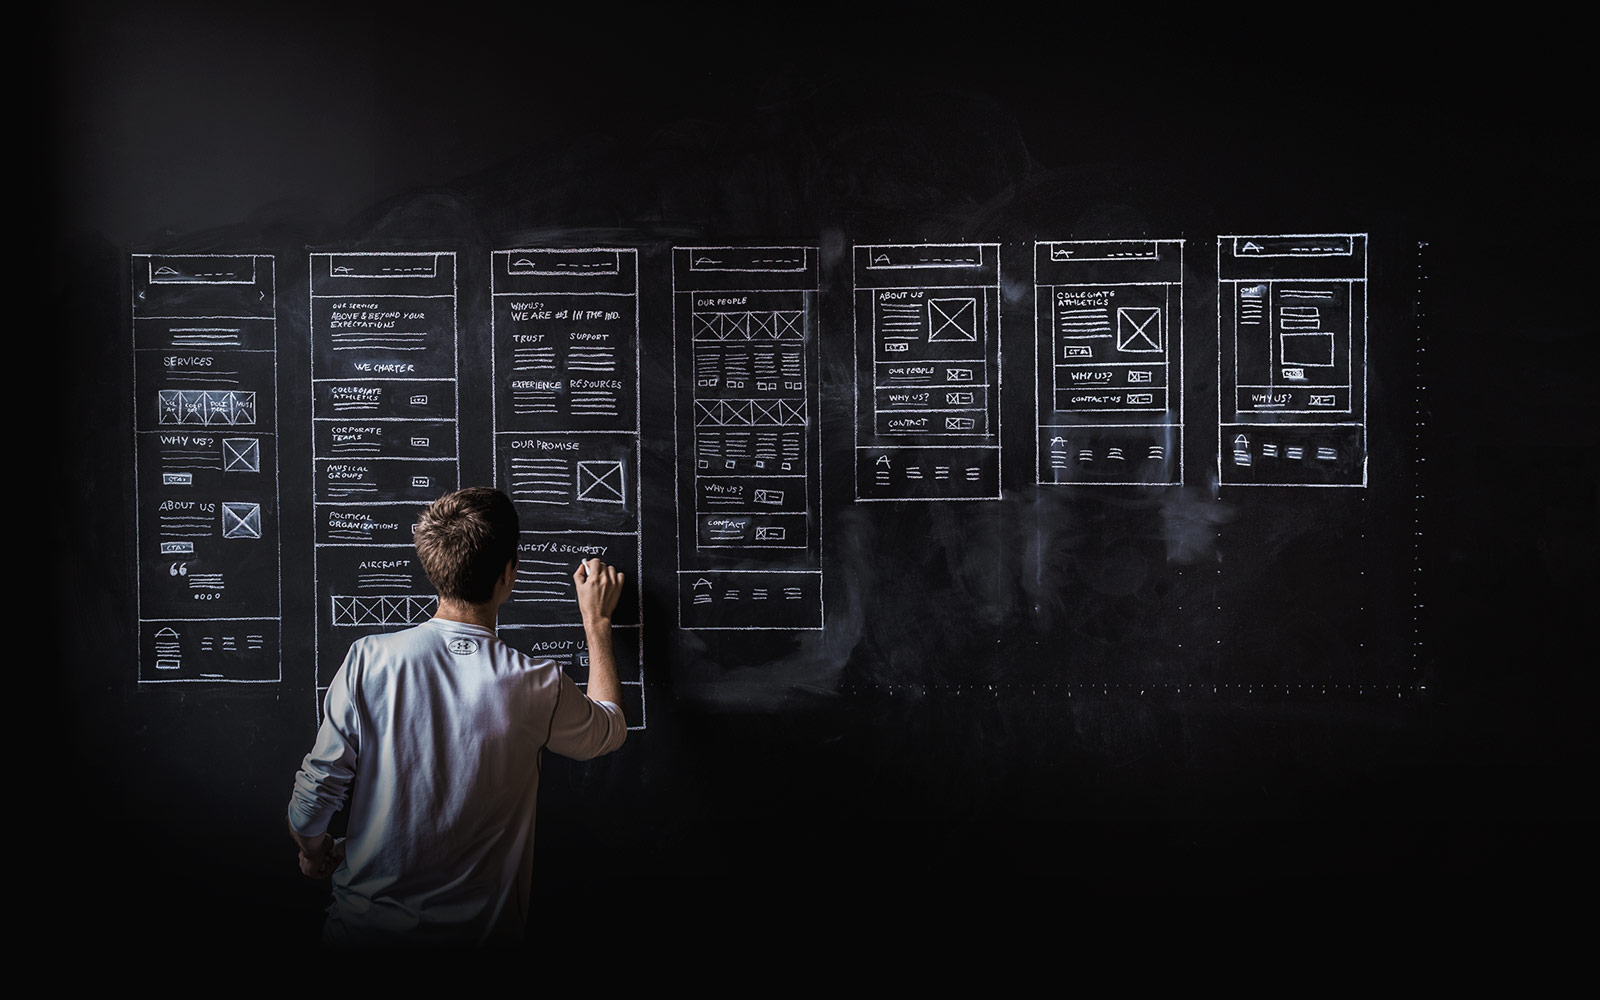
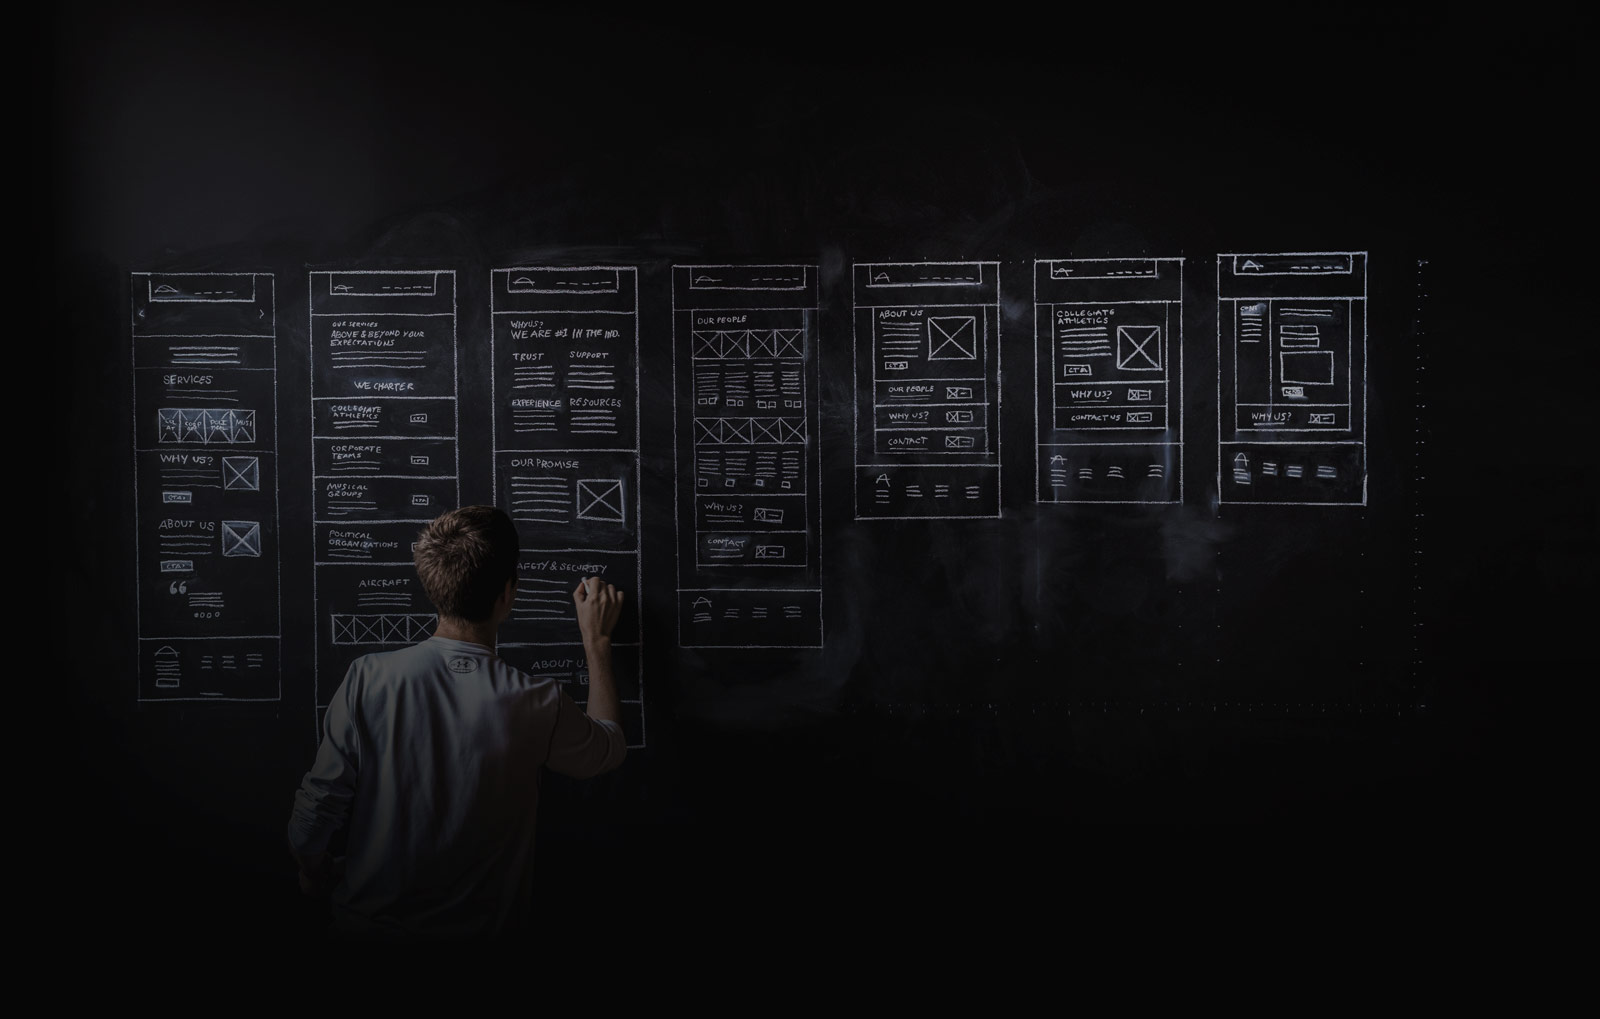
new background image, updated nav

Changed region(s): [[0.0625, 0.217, 0.875, 0.93], [0.4375, 0.682, 0.4688, 0.713]]

diff --git a/src/css/index.css b/src/css/index.css
@@ -59,16 +59,8 @@ table {
 /* line 1, ../sass/theme/_base.scss */
 html {
   height: 100%;
-  background: #0f2938;
-  /* Old browsers */
-  filter: progid:DXImageTransform.Microsoft.gradient( startColorstr='$green', endColorstr='#000000',GradientType=0 );
-  /* IE6-9 */
-  background: -moz-linear-gradient(top, #0f6938 0%, #000000 100%);
-  /* FF3.6-15 */
-  background: -webkit-linear-gradient(top, #0f6938 0%, #000000 100%);
-  /* Chrome10-25,Safari5.1-6 */
-  background: linear-gradient(to bottom, #0f6938 0%, #000000 100%);
-  /* W3C, IE10+, FF16+, Chrome26+, Opera12+, Safari7+ */
+  background: #0f0f0f;
+  background: #0f0f0f url(../img/niko-matses_ui-designer_chalkboard-wireframing.jpg);
   background-repeat: no-repeat;
   background-position: 20% 50%;
   background-size: cover;
@@ -81,7 +73,7 @@ html {
   }
 }
 
-/* line 18, ../sass/theme/_base.scss */
+/* line 15, ../sass/theme/_base.scss */
 body {
   height: 100%;
   -webkit-animation: fadein 3s;
@@ -95,7 +87,7 @@ body {
   animation: fadein 3s;
 }
 
-/* line 27, ../sass/theme/_base.scss */
+/* line 24, ../sass/theme/_base.scss */
 #wrapper {
   padding: 0;
   margin: 0;
@@ -106,8 +98,9 @@ body {
 }
 
 @media (max-width: 1024px) {
-  /* line 36, ../sass/theme/_base.scss */
+  /* line 33, ../sass/theme/_base.scss */
   #bg-container {
+    background-image: url(../img/niko-matses_ui-designer_chalkboard-wireframing.jpgr);
     background-attachment: scroll;
     background-position: 30% 0;
     background-size: cover;
@@ -122,7 +115,7 @@ body {
  * iPad with portrait orientation.
  */
 @media all and (device-width: 768px) and (device-height: 1024px) and (orientation: portrait) {
-  /* line 52, ../sass/theme/_base.scss */
+  /* line 49, ../sass/theme/_base.scss */
   #bg-container {
     height: 1024px;
   }
@@ -131,7 +124,7 @@ body {
  * iPad with landscape orientation.
  */
 @media all and (device-width: 768px) and (device-height: 1024px) and (orientation: landscape) {
-  /* line 61, ../sass/theme/_base.scss */
+  /* line 58, ../sass/theme/_base.scss */
   #bg-container {
     height: 768px;
   }
@@ -141,7 +134,7 @@ body {
  * You can also target devices with aspect ratio.
  */
 @media screen and (device-aspect-ratio: 40 / 71) {
-  /* line 71, ../sass/theme/_base.scss */
+  /* line 68, ../sass/theme/_base.scss */
   #bg-container {
     height: 500px;
   }
@@ -159,7 +152,7 @@ h1, h2, p {
 }
 
 /* line 9, ../sass/theme/_typography.scss */
-a, footer {
+footer {
   font-family: "Coda", Gotham, "Helvetica Neue", Helvetica, Arial, sans-serif;
 }
 
@@ -189,18 +182,17 @@ h2 {
   font-size: 1.75em;
   letter-spacing: 1px;
   text-transform: uppercase;
-  border-bottom: 1px solid;
   margin-bottom: 15px;
   padding: 0 0 15px;
 }
 
-/* line 35, ../sass/theme/_typography.scss */
+/* line 34, ../sass/theme/_typography.scss */
 a {
   text-decoration: none;
   color: #f1f1f1;
 }
 
-/* line 39, ../sass/theme/_typography.scss */
+/* line 38, ../sass/theme/_typography.scss */
 p {
   color: #f1f1f1;
   font-size: 1.25em;
@@ -213,44 +205,48 @@ p {
   right: 0;
   width: 100%;
 }
-@media (min-width: 640px) {
-  /* line 1, ../sass/theme/_nav.scss */
-  .nav {
-    width: auto;
-  }
+
+/* line 6, ../sass/theme/_nav.scss */
+.nav__menu {
+  text-align: right;
 }
 
 /* line 9, ../sass/theme/_nav.scss */
-.nav__menu {
-  text-align: center;
-}
-
-/* line 14, ../sass/theme/_nav.scss */
 .nav__menu-item {
   display: inline-block;
   padding: 15px;
+  font-family: "Coda", Gotham, "Helvetica Neue", Helvetica, Arial, sans-serif;
   font-size: 14px;
   text-transform: uppercase;
   letter-spacing: 1px;
 }
 @media (min-width: 640px) {
-  /* line 14, ../sass/theme/_nav.scss */
+  /* line 9, ../sass/theme/_nav.scss */
   .nav__menu-item {
     padding: 30px;
     font-size: 1em;
   }
 }
 
-/* line 25, ../sass/theme/_nav.scss */
+/* line 21, ../sass/theme/_nav.scss */
 .nav__menu-link {
   -webkit-font-smoothing: antialiased;
   -moz-osx-font-smoothing: grayscale;
-  font-family: "Coda", Gotham, "Helvetica Neue", Helvetica, Arial, sans-serif;
   transition: color .3s;
 }
-/* line 29, ../sass/theme/_nav.scss */
+/* line 24, ../sass/theme/_nav.scss */
 .nav__menu-link:hover {
   color: #fff !important;
+}
+
+/* line 29, ../sass/theme/_nav.scss */
+.nav__menu-item--logo {
+  position: relative;
+  display: inline;
+  left: 0;
+  font-size: 18px;
+  font-family: "Averia Sans Libre", Gotham, "Helvetica Neue", Helvetica, Arial, sans-serif;
+  letter-spacing: 5px;
 }
 
 /* line 1, ../sass/theme/_header.scss */
@@ -407,7 +403,8 @@ p {
 .cta {
   width: 50%;
   max-width: 300px;
-  font-size: 14px;
+  font-family: "Averia Sans Libre", Gotham, "Helvetica Neue", Helvetica, Arial, sans-serif;
+  font-size: 16px;
   display: block;
   padding: 15px 30px;
   color: #f1f1f1;
@@ -416,23 +413,23 @@ p {
   letter-spacing: 1px;
   transition: background-color 0.3s ease, color 0.3s ease;
   margin: 50px auto 0;
-  background: #0f6938;
+  background: #45B649;
 }
 
-/* line 16, ../sass/modules/_cta.scss */
+/* line 17, ../sass/modules/_cta.scss */
 .anchor {
   visibility: hidden;
   padding-top: 100px;
   margin: 0;
 }
 
-/* line 21, ../sass/modules/_cta.scss */
+/* line 22, ../sass/modules/_cta.scss */
 .cta:hover {
-  color: #f1f1f1;
+  color: #45B649;
   background: #0f0f0f;
 }
 
-/* line 25, ../sass/modules/_cta.scss */
+/* line 26, ../sass/modules/_cta.scss */
 .contact__cta {
   display: inline-block;
   margin: 15px;

diff --git a/src/index.html b/src/index.html
@@ -4,7 +4,7 @@
 <meta charset="utf-8">
 <meta name="viewport" content="width=device-width, initial-scale=1.0">
 <meta name="format-detection" content="telephone=no">
-<title>Niko Matses - Cinematographer / Editor - Boston, MA</title>
+<title>Niko Matses - Motion Design / Web Development - Boston, MA</title>
 <script src="https://use.typekit.net/qbp5vqk.js"></script>
 <script>try{Typekit.load({ async: true });}catch(e){}</script>   
 <link href="css/pres/screen.css" media="screen, projection" rel="stylesheet" type="text/css" />
@@ -31,30 +31,26 @@
 </div>
    <nav class="nav">
       <ul class="nav__menu">
+         <li class="nav__menu-item"><a class="nav__menu-link" href="#home">Home</a></li>            
+         <li class="nav__menu-item"><a class="nav__menu-link" href="#about">About</a></li>         
          <li class="nav__menu-item"><a class="nav__menu-link" href="#showreel">Video</a></li>
-         <li class="nav__menu-item"><a class="nav__menu-link" href="#about">About</a></li>
          <li class="nav__menu-item"><a class="nav__menu-link" href="#contact">Contact</a></li>
       </ul>
    </nav>
-<header class="header">
+<header class="header" id="home">
   <section class="header__intro">
-    <article>
-        <h2 id="header__name" class="tk-rinse">Niko Matses</h2>
-        <h1 id="header__title" class="tk-rinse">Digital Designer &amp; Web Developer</h1>
+    <div id="cbp-so-scroller" class="cbp-so-scroller">
+        <h1 id="header__name" class="tk-rinse">Niko Matses</h1>
+        <h1 id="header__title" class="tk-rinse">Motion Design &amp; Web Developement</h1>
         <h2 id="header__name" class="tk-rinse">Boston, MA</h2>
-        <a class="cta" href="#showreel">Show Reel</a>
-    </article>
+        <a class="cta" href="#about">Learn More</a>
+     </div>
   </section>
 </header>
 
 <div id="main__gradient-in"></div> 
 <main id="main">
-  <section id="showreel" name="showreel">
-	<div class='embed-container'><iframe src='https://player.vimeo.com/video/131066298?title=0&byline=0&portrait=0' frameborder='0' webkitAllowFullScreen mozallowfullscreen allowFullScreen></iframe></div>
-	<a class="cta" href="#about">About</a>
-    </section>
-    
-    <div id="about" name="about" class="about__container">	
+    <section id="about" name="about" class="about__container">	
 			<div id="cbp-so-scroller" class="cbp-so-scroller">
 				<section class="cbp-so-section">
 					<figure class="cbp-so-side cbp-so-side-left">
@@ -64,15 +60,18 @@
                         <article class="about__me">
 
                             <h2  class="tk-rinse">About</h2>     
-                               <p class="about__intro">Boston-based cinematographer, editor, and motion designer seeking collaborators for short film and music video projects. I've worked five years semi-professionally as a photographer, camera operator, editor, director and producer - with a professional career as a front-end web developer.</p>
+                               <p class="about__intro">Boston-based cinematographer, developer, and motion designer seeking collaborators for short film and music video projects. I've worked seven years semi-professionally as a photographer, camera operator, editor, director and producer - with a professional career as a front-end web developer.</p>
                                <p class="about__intro">I have a passion for music, art, design and cinematography. I'm constantly interested in discussing new and exciting creative projects. If you think you might like to collaborate on a short film, music video, documentary or event, let's talk shop!</p>
         <a href="#contact" class="cta">Contact</a>
                       </article>		
 				</article>
 			</section>
 		</div>
-    </div>
-	
+    </section>   
+  <section id="showreel" name="showreel">
+	<div class='embed-container'><iframe src='https://player.vimeo.com/video/131066298?title=0&byline=0&portrait=0' frameborder='0' webkitAllowFullScreen mozallowfullscreen allowFullScreen></iframe></div>
+	<a class="cta" href="#about">About</a>
+   </section>
 </main>
 <div id="main__gradient-out"></div>    
     

diff --git a/src/sass/theme/_base.scss b/src/sass/theme/_base.scss
@@ -3,16 +3,13 @@ html {
     background: #000;
 }
 	height: 100%;
-	background: #0f2938; /* Old browsers */
-	filter: progid:DXImageTransform.Microsoft.gradient( startColorstr='$green', endColorstr='#000000',GradientType=0 ); /* IE6-9 */
-	background: -moz-linear-gradient(top, $green 0%, #000000 100%); /* FF3.6-15 */
-	background: -webkit-linear-gradient(top, $green 0%,#000000 100%); /* Chrome10-25,Safari5.1-6 */
-	background: linear-gradient(to bottom, $green 0%,#000000 100%); /* W3C, IE10+, FF16+, Chrome26+, Opera12+, Safari7+ */
-	//background: #000 url(../img/niko-matses-cinematographer.jpg);
+	background: $gray;
+	background: $gray url(../img/niko-matses_ui-designer_chalkboard-wireframing.jpg);
 	background-repeat:no-repeat;
 	background-position: 20% 50%;
 	background-size:cover;
 	background-attachment:fixed;
+   
 }
 
 body {
@@ -35,7 +32,7 @@ body {
 
 #bg-container {
   @media (max-width:1024px) {
-    //background-image: url(../img/niko-matses-cinematographer.jpg);
+    background-image: url(../img/niko-matses_ui-designer_chalkboard-wireframing.jpgr);
     background-attachment:scroll;
     background-position: 30% 0;
     background-size:cover;

diff --git a/src/sass/theme/_nav.scss b/src/sass/theme/_nav.scss
@@ -2,21 +2,17 @@
    position: fixed;
    right: 0;
    width: 100%;
-   @media (min-width:640px) {
-      width: auto;
-   } 
 }
 .nav__menu {
-   
-   
-   text-align: center;
+   text-align: right;
 }
 .nav__menu-item {
    display: inline-block;
    padding: 15px;
+   font-family: "Coda", Gotham, "Helvetica Neue", Helvetica, Arial, sans-serif;
    font-size: 14px;
    text-transform: uppercase;
-   letter-spacing: 1px;
+   letter-spacing: 1px;   
    @media (min-width:640px) {
       padding: 30px;
       font-size: 1em;
@@ -24,9 +20,17 @@
 }
 .nav__menu-link {
     @include smoothText;
-	font-family: "Coda", Gotham, "Helvetica Neue", Helvetica, Arial, sans-serif;
-   transition: color .3s;
-   &:hover {
+    transition: color .3s;
+    &:hover {
       color: #fff !important;
-   }
+    }
+}
+
+.nav__menu-item--logo {
+   position: relative;
+   display: inline;
+   left: 0;
+   font-size: 18px;
+   font-family: "Averia Sans Libre", Gotham, "Helvetica Neue", Helvetica, Arial, sans-serif;
+   letter-spacing: 5px;
 }

diff --git a/src/sass/theme/_typography.scss b/src/sass/theme/_typography.scss
@@ -6,7 +6,7 @@ h1, h2, p {
     @include smoothText;
 	font-family: "Averia Sans Libre", Gotham, "Helvetica Neue", Helvetica, Arial, sans-serif;
 }
- a, footer {
+ footer {
 	font-family: "Coda", Gotham, "Helvetica Neue", Helvetica, Arial, sans-serif;
 }
 
@@ -28,7 +28,6 @@ h2 {
 	font-size: 1.75em;
 	letter-spacing: 1px;
 	text-transform:uppercase;
-	border-bottom: 1px solid;
 	margin-bottom: 15px;
     padding: 0 0 15px;
 }

diff --git a/src/sass/modules/_cta.scss b/src/sass/modules/_cta.scss
@@ -1,7 +1,8 @@
 .cta {
 	width: 50%;
 	max-width: 300px;
-	font-size: 14px;
+	font-family: "Averia Sans Libre", Gotham, "Helvetica Neue", Helvetica, Arial, sans-serif;   
+	font-size: 16px;
 	display:block;
 	padding: 15px 30px;
 	color:$white;
@@ -19,7 +20,7 @@
   margin: 0;    
 }
 .cta:hover {
-	color: $white;
+	color: $green;
 	background: $gray;	
 }
 .contact__cta {

diff --git a/src/sass/index.scss b/src/sass/index.scss
@@ -1,4 +1,5 @@
-$green: #0f6938;
+$green: #45B649;
+$yellow: #DCE35B;
 $blue: #4BDBE7;
 $gray: #0f0f0f;
 $white: #f1f1f1;
